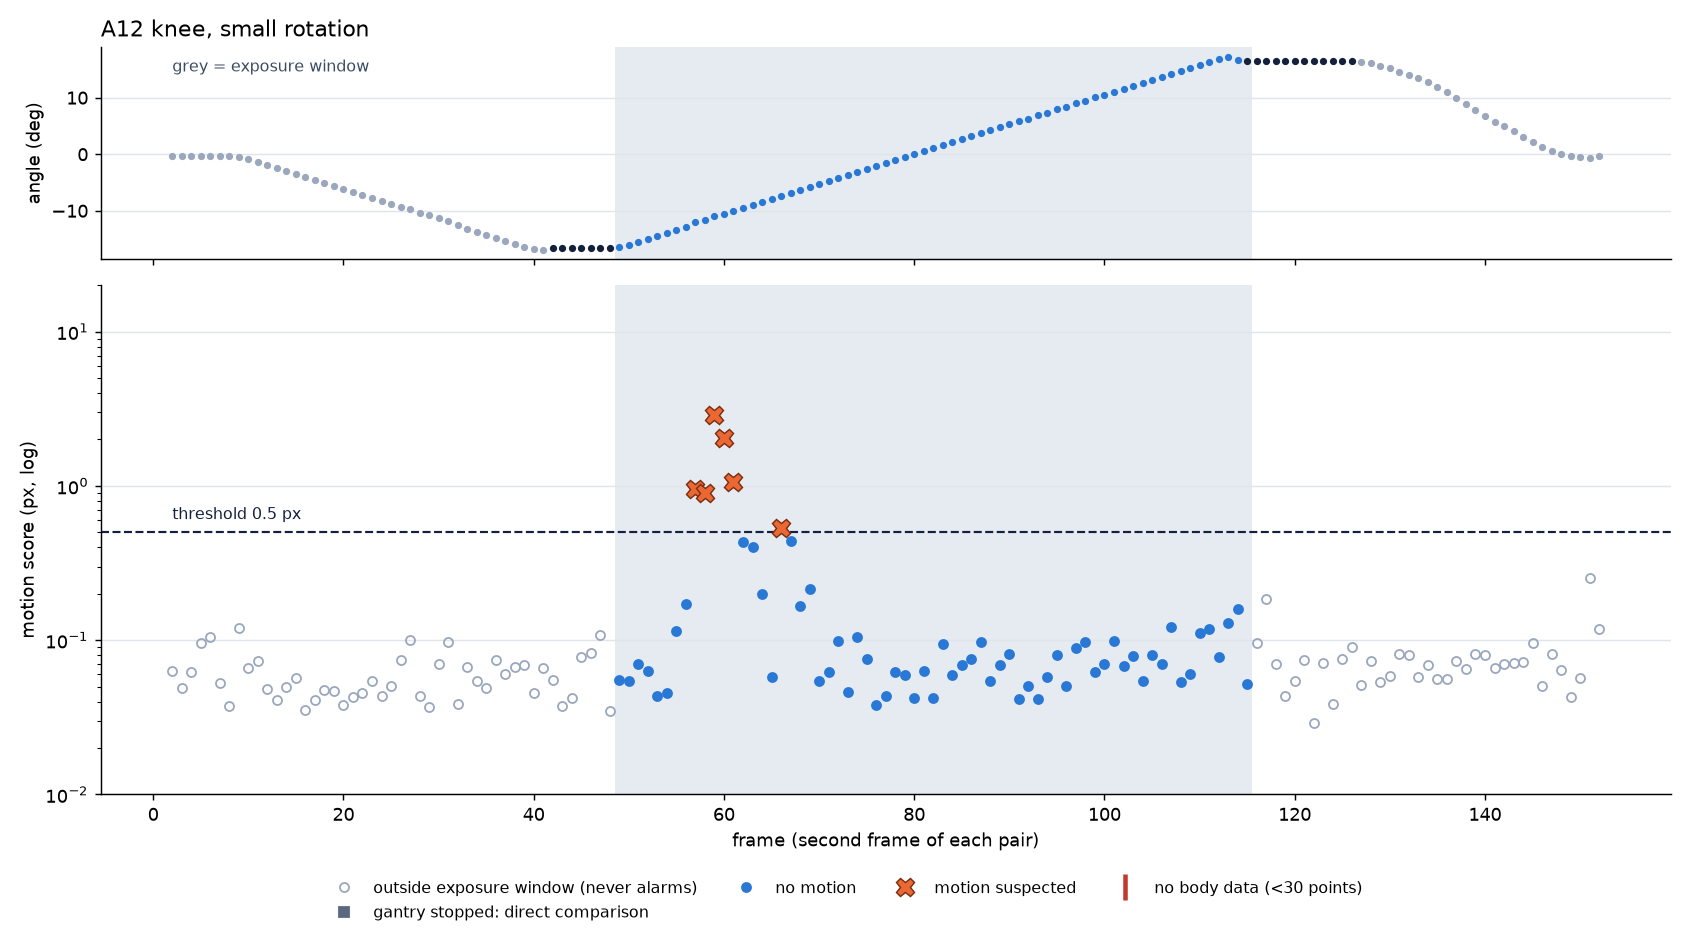
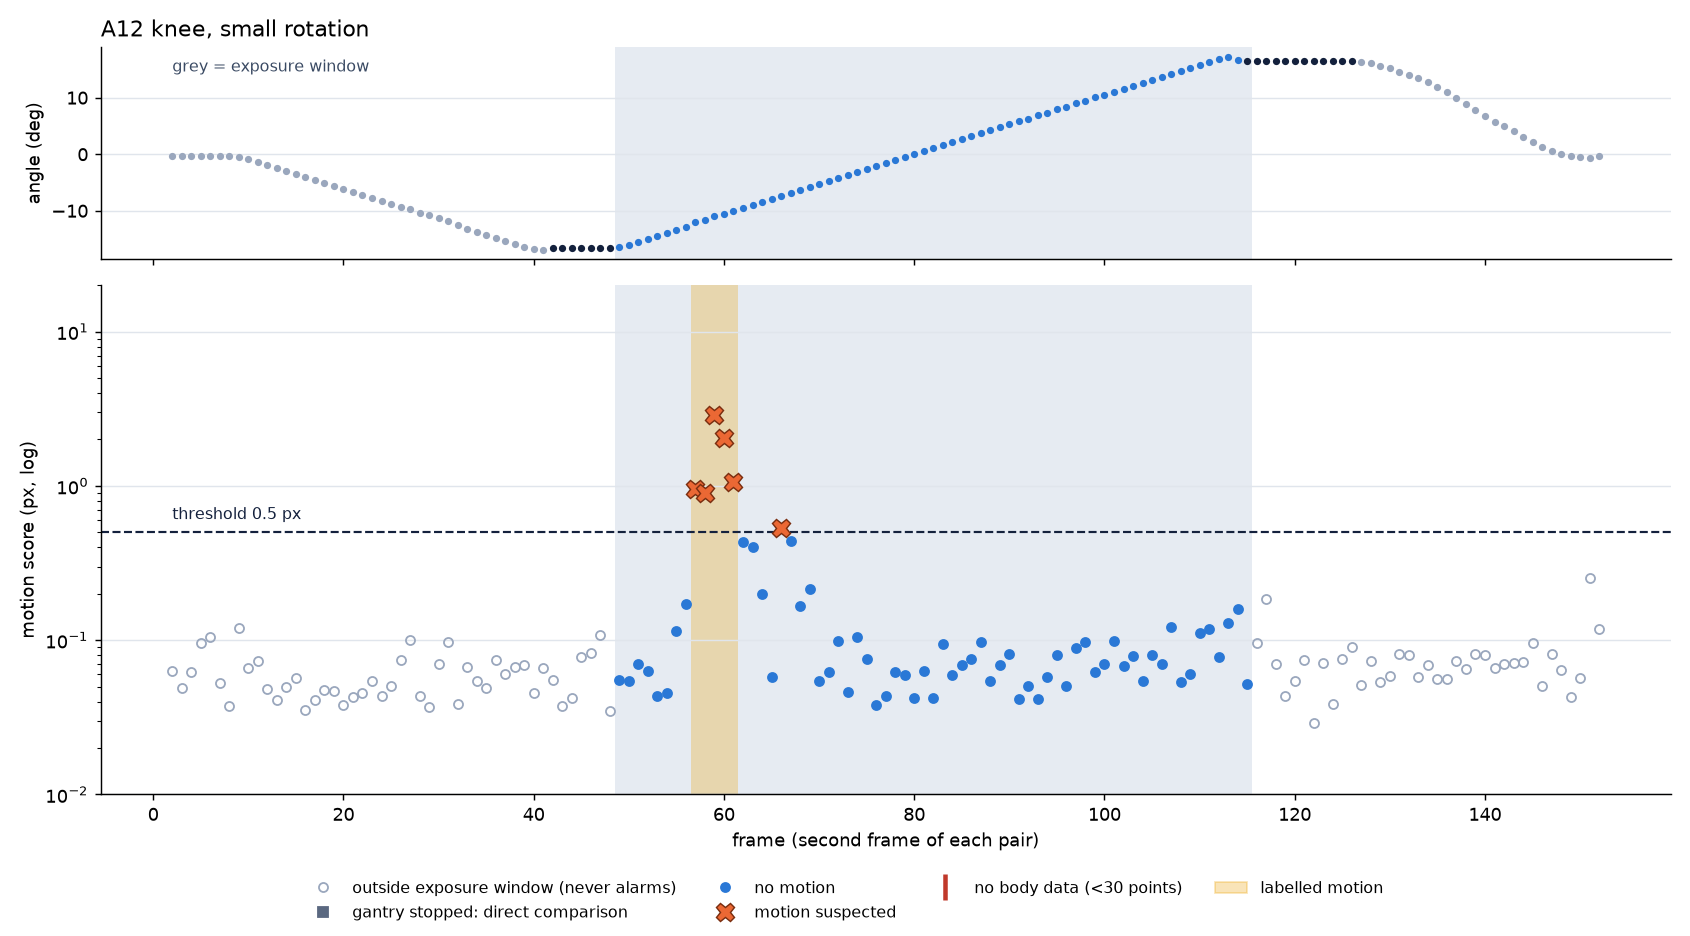
A12 and A26: add labelled ranges to plots and README
Claude-Session: https://claude.ai/code/session_01B33XwERzqgqNtM6tXR4W1H

Changed region(s): [[0.4, 0.2788, 0.4615, 0.8675], [0.1846, 0.9295, 0.5231, 0.9915], [0.5231, 0.9295, 0.8308, 0.9605]]

diff --git a/motion_detection/results/volunteers_A07_A12_2026_10/README.md b/motion_detection/results/volunteers_A07_A12_2026_10/README.md
@@ -17,3 +17,14 @@
 התנועה מ-73→74 עד 85→86, כלומר זוגות 74–86 (אושר).
 - 74–86: כל 13 הזוגות זוהו (ציון 0.55–5.03).
 - מחוץ לתיוג: 87 (0.64), צמוד לסוף. שאר הזוגות בחלון נקיים (מקסימום 0.39).
+
+## A12: תיוג
+התנועה מ-56→57 עד 60→61, כלומר זוגות 57–61 (5 זוגות).
+- כל 5 הזוגות זוהו (ציון 0.90–2.90).
+- מחוץ לתיוג: 66 (0.53), חשד בודד שלא מוסבר. 62 ו-63 (0.43, 0.40) מתחת לסף.
+
+## A26: תיוג (ההרצה ב-`../union_check_2026_10`)
+התנועה מ-58→59 עד 67→68, כלומר זוגות 59–68 (10 זוגות).
+- זוהו 3 מתוך 10: 60, 61, 68 (ציון 0.63–0.71).
+- לא זוהו: 59 (0.47) ו-62 (0.41) ו-67 (0.42) קרובים לסף, ו-63–66 נמוכים (0.09–0.23).
+- מחוץ לתיוג: אין חשדות.
